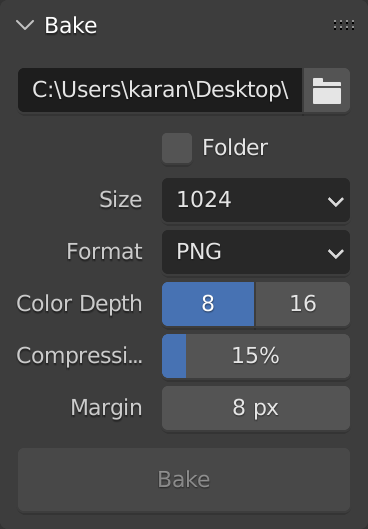
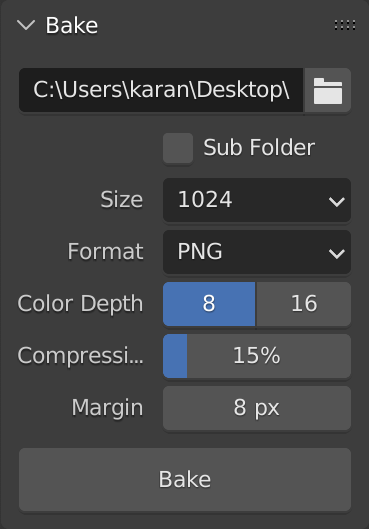
Updated docs

diff --git a/docs/maps.md b/docs/maps.md
@@ -10,6 +10,11 @@
 
 - Suffix `Albedo`
 
+### Alpha
+<p><img :src="$withBase('/img/alpha.png')" alt='' /></p>
+
+- Suffix `Alpha`
+
 ### AO
 <p><img :src="$withBase('/img/ao.png')" alt='' /></p>
 
@@ -36,6 +41,14 @@
 
 - Suffix `Material ID`
 
+- To bake material id map, it requires vertex color or color attribute named `VertexColor`.
+  - Go to edit mode.
+  - `Vertex Color` panel will appear.
+  <p><img :src="$withBase('/img/vertex_color.png')" alt='' /></p>
+  - Select `Verts` or `Faces` to assign color.
+  - Click the paint icon to assign color.
+
+
 ### Normal
 <p><img :src="$withBase('/img/normal_tangent.png')" alt='' /></p>
 
@@ -48,10 +61,10 @@
 
 - Suffix `Roughness`
 
-### Combined
+<!-- ### Combined
 <p><img :src="$withBase('/img/combined.png')" alt='' /></p>
 
-- Suffix `First letter of the RGBA maps` e.g. `Bake_Group_MRAC`
+- Suffix `First letter of the RGBA maps` e.g. `Bake_Group_MRAC` -->
 
 ## Preset
 <p><img :src="$withBase('/img/map_preset.png')" alt='' /></p>

diff --git a/docs/bake-groups.md b/docs/bake-groups.md
@@ -7,6 +7,7 @@ Bake Group is the starting point for the addon to work.
 <p><img :src="$withBase('/img/bake_group_added.png')" alt='' /></p>
 
 - Create a new bake group from selected objects by holding `SHIFT` and pressing `+` operator.
+- Create a high to low poly bake group from selected objects by holding `CTRL` and pressing `+` operator.
 
 ::: warning
 - High poly objects should have `_high` suffix.

diff --git a/docs/bake.md b/docs/bake.md
@@ -7,7 +7,7 @@ Output path for baked maps.
 - `Bake` operator will get disabled if `Groups`, `High Poly`, `Low Poly` or `Objects` and `Maps` are not available.
 :::
 
-### Folder
+### Sub Folder
 Create a sub folder for baked maps.
 ::: warning
 - `Bake_Group` name will be the name for the sub folder.

diff --git a/docs/workflow.md b/docs/workflow.md
@@ -24,4 +24,5 @@
 
 ::: danger Note
 - High poly object(s) must have a material assigned.
+- The material must have a `Principled BSDF` shader.
 :::
